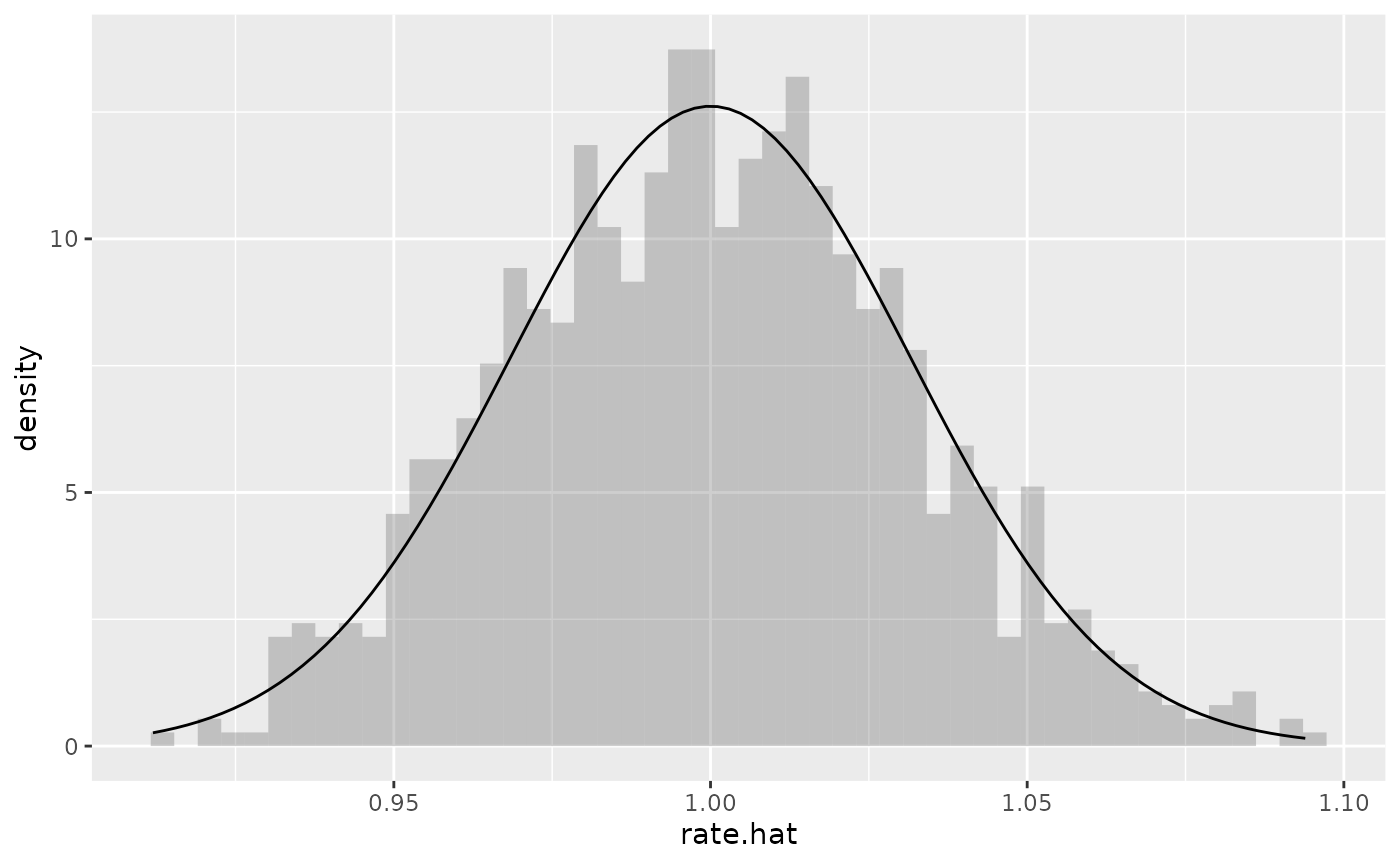
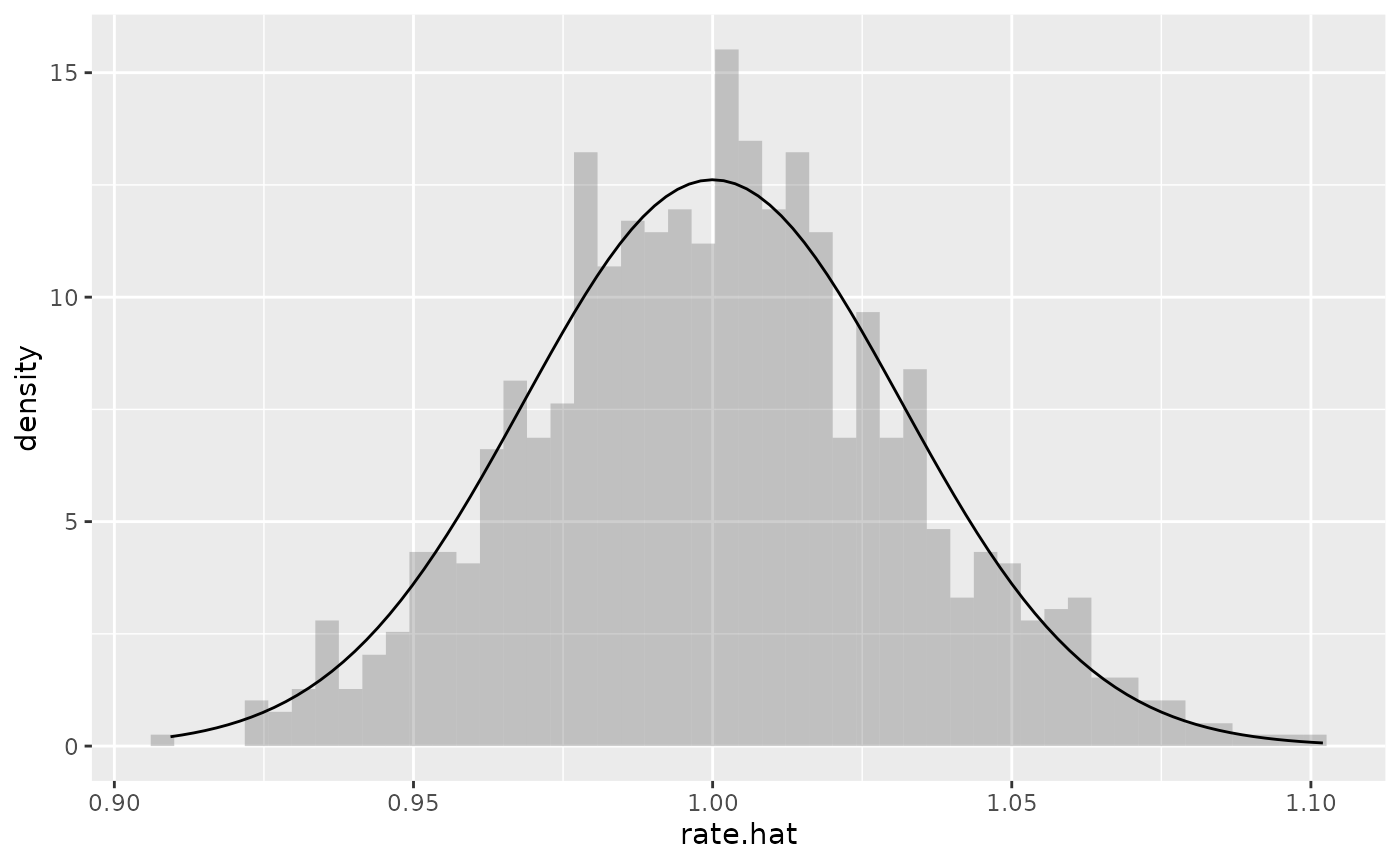
Built site for algebraic.mle: 0.1.0@e5392ce

diff --git a/articles/exponential-mle.html b/articles/exponential-mle.html
@@ -103,10 +103,10 @@
 <span class="co">#&gt; <span style="color: #949494;"># A tibble: 4 × 1</span></span>
 <span class="co">#&gt;       x</span>
 <span class="co">#&gt;   <span style="color: #949494; font-style: italic;">&lt;dbl&gt;</span></span>
-<span class="co">#&gt; <span style="color: #BCBCBC;">1</span> 2.71 </span>
-<span class="co">#&gt; <span style="color: #BCBCBC;">2</span> 1.94 </span>
-<span class="co">#&gt; <span style="color: #BCBCBC;">3</span> 0.163</span>
-<span class="co">#&gt; <span style="color: #BCBCBC;">4</span> 0.548</span></code></pre></div>
+<span class="co">#&gt; <span style="color: #BCBCBC;">1</span> 0.731</span>
+<span class="co">#&gt; <span style="color: #BCBCBC;">2</span> 0.813</span>
+<span class="co">#&gt; <span style="color: #BCBCBC;">3</span> 0.292</span>
+<span class="co">#&gt; <span style="color: #BCBCBC;">4</span> 2.43</span></code></pre></div>
 <p>We show a histogram of the sample, and a plot of the exponential function’s pdf, with:</p>
 <div class="sourceCode" id="cb4"><pre class="downlit sourceCode r">
 <code class="sourceCode R"><span class="kw"><a href="https://rdrr.io/r/base/library.html" class="external-link">library</a></span><span class="op">(</span><span class="va"><a href="https://ggplot2.tidyverse.org" class="external-link">ggplot2</a></span><span class="op">)</span>
@@ -124,35 +124,35 @@
 <span class="fu"><a href="https://rdrr.io/r/base/summary.html" class="external-link">summary</a></span><span class="op">(</span><span class="va">rate.hat</span><span class="op">)</span>
 <span class="co">#&gt; Maximum likelihood estimator, of type mle_exp ,</span>
 <span class="co">#&gt; is normally distributed with mean</span>
-<span class="co">#&gt; [1] 0.9586244</span>
+<span class="co">#&gt; [1] 1.010655</span>
 <span class="co">#&gt; and variance-covariance</span>
-<span class="co">#&gt;              [,1]</span>
-<span class="co">#&gt; [1,] 0.0009189607</span>
+<span class="co">#&gt;             [,1]</span>
+<span class="co">#&gt; [1,] 0.001021424</span>
 <span class="co">#&gt; ---</span>
-<span class="co">#&gt; The asymptotic mean squared error 0.0009189607 </span>
+<span class="co">#&gt; The asymptotic mean squared error 0.001021424 </span>
 <span class="co">#&gt; The asymptotic 95% confidence interval is</span>
 <span class="co">#&gt;       2.5 %   97.5 %</span>
-<span class="co">#&gt; 1 0.9087617 1.008487</span>
-<span class="co">#&gt; The log-likelihood is -1042.256 </span>
-<span class="co">#&gt; The AIC is 2086.512</span></code></pre></div>
+<span class="co">#&gt; 1 0.9580861 1.063224</span>
+<span class="co">#&gt; The log-likelihood is -989.4012 </span>
+<span class="co">#&gt; The AIC is 1980.802</span></code></pre></div>
 <p>We can show the point estimator with:</p>
 <div class="sourceCode" id="cb6"><pre class="downlit sourceCode r">
 <code class="sourceCode R"><span class="fu"><a href="../reference/point.html">point</a></span><span class="op">(</span><span class="va">rate.hat</span><span class="op">)</span>
-<span class="co">#&gt; [1] 0.9586244</span></code></pre></div>
+<span class="co">#&gt; [1] 1.010655</span></code></pre></div>
 <p>We can show the Fisher information and variance-covariance matrices with:</p>
 <div class="sourceCode" id="cb7"><pre class="downlit sourceCode r">
 <code class="sourceCode R"><span class="fu"><a href="../reference/fisher_info.html">fisher_info</a></span><span class="op">(</span><span class="va">rate.hat</span><span class="op">)</span>
 <span class="co">#&gt;          [,1]</span>
-<span class="co">#&gt; [1,] 1088.186</span>
+<span class="co">#&gt; [1,] 979.0255</span>
 <span class="fu"><a href="https://rdrr.io/r/stats/vcov.html" class="external-link">vcov</a></span><span class="op">(</span><span class="va">rate.hat</span><span class="op">)</span>
-<span class="co">#&gt;              [,1]</span>
-<span class="co">#&gt; [1,] 0.0009189607</span></code></pre></div>
+<span class="co">#&gt;             [,1]</span>
+<span class="co">#&gt; [1,] 0.001021424</span></code></pre></div>
 <p>(If <code>rate.hat</code> had been a vector, <code>vcov</code> would have output a variance-covariance matrix. We may consider the above outputs <span class="math inline">\(1 \times 1\)</span> matrices.)</p>
 <p>We can show the confidence interval with:</p>
 <div class="sourceCode" id="cb8"><pre class="downlit sourceCode r">
 <code class="sourceCode R"><span class="fu"><a href="https://rdrr.io/r/stats/confint.html" class="external-link">confint</a></span><span class="op">(</span><span class="va">rate.hat</span><span class="op">)</span>
 <span class="co">#&gt;       2.5 %   97.5 %</span>
-<span class="co">#&gt; 1 0.9087617 1.008487</span></code></pre></div>
+<span class="co">#&gt; 1 0.9580861 1.063224</span></code></pre></div>
 <div class="section level3">
 <h3 id="sampling-distribution-of-the-mle">Sampling distribution of the MLE<a class="anchor" aria-label="anchor" href="#sampling-distribution-of-the-mle"></a>
 </h3>
@@ -204,10 +204,10 @@
 <p>We expected a mean of <span class="math inline">\(2\)</span> and a variance of <span class="math inline">\(4/n = 0.004\)</span>, which is pretty close to what we obtained:</p>
 <div class="sourceCode" id="cb14"><pre class="downlit sourceCode r">
 <code class="sourceCode R"><span class="fu"><a href="../reference/point.html">point</a></span><span class="op">(</span><span class="va">f.hat</span><span class="op">)</span>
-<span class="co">#&gt; [1] 1.917249</span>
+<span class="co">#&gt; [1] 2.02131</span>
 <span class="fu"><a href="https://rdrr.io/r/stats/vcov.html" class="external-link">vcov</a></span><span class="op">(</span><span class="va">f.hat</span><span class="op">)</span>
-<span class="co">#&gt;            [,1]</span>
-<span class="co">#&gt; [1,] 0.00352431</span></code></pre></div>
+<span class="co">#&gt;             [,1]</span>
+<span class="co">#&gt; [1,] 0.004364325</span></code></pre></div>
 </div>
 </div>
 </div>
@@ -239,20 +239,16 @@
 <span class="va">mle</span> <span class="op">&lt;-</span> <span class="fu"><a href="../reference/mle_exp.html">mle_exp</a></span><span class="op">(</span><span class="va">samp</span><span class="op">)</span></code></pre></div>
 <p>We show the results in the following table:</p>
 <div class="sourceCode" id="cb16"><pre class="downlit sourceCode r">
-<code class="sourceCode R"><span class="kw"><a href="https://rdrr.io/r/base/library.html" class="external-link">library</a></span><span class="op">(</span><span class="va"><a href="http://haozhu233.github.io/kableExtra/" class="external-link">kableExtra</a></span><span class="op">)</span>
-<span class="va">df</span> <span class="op">&lt;-</span> <span class="fu"><a href="https://rdrr.io/r/base/data.frame.html" class="external-link">data.frame</a></span><span class="op">(</span>
+<code class="sourceCode R"><span class="va">df</span> <span class="op">&lt;-</span> <span class="fu"><a href="https://rdrr.io/r/base/data.frame.html" class="external-link">data.frame</a></span><span class="op">(</span>
     <span class="fu"><a href="https://rdrr.io/r/base/c.html" class="external-link">c</a></span><span class="op">(</span><span class="fu"><a href="../reference/point.html">point</a></span><span class="op">(</span><span class="va">mle.wt</span><span class="op">)</span>,<span class="fu"><a href="../reference/point.html">point</a></span><span class="op">(</span><span class="va">mle</span><span class="op">)</span><span class="op">)</span>,
     <span class="fu"><a href="https://rdrr.io/r/base/c.html" class="external-link">c</a></span><span class="op">(</span><span class="fu"><a href="https://rdrr.io/r/stats/vcov.html" class="external-link">vcov</a></span><span class="op">(</span><span class="va">mle.wt</span><span class="op">)</span>,<span class="fu"><a href="https://rdrr.io/r/stats/vcov.html" class="external-link">vcov</a></span><span class="op">(</span><span class="va">mle</span><span class="op">)</span><span class="op">)</span><span class="op">)</span>
 
 <span class="fu"><a href="https://rdrr.io/r/base/colnames.html" class="external-link">colnames</a></span><span class="op">(</span><span class="va">df</span><span class="op">)</span> <span class="op">&lt;-</span> <span class="fu"><a href="https://rdrr.io/r/base/c.html" class="external-link">c</a></span><span class="op">(</span><span class="st">"point estimate"</span>,<span class="st">"variance"</span><span class="op">)</span>
 <span class="fu"><a href="https://tibble.tidyverse.org/reference/rownames.html" class="external-link">rownames</a></span><span class="op">(</span><span class="va">df</span><span class="op">)</span> <span class="op">&lt;-</span> <span class="fu"><a href="https://rdrr.io/r/base/c.html" class="external-link">c</a></span><span class="op">(</span><span class="st">"weighted MLE"</span>, <span class="st">"MLE"</span><span class="op">)</span>
-
-<span class="fu">knitr</span><span class="fu">::</span><span class="fu"><a href="https://rdrr.io/pkg/knitr/man/kable.html" class="external-link">kable</a></span><span class="op">(</span><span class="va">df</span>,
-             bootstrap_options<span class="op">=</span><span class="st">"striped"</span>,
-             full_width<span class="op">=</span><span class="cn">F</span>,
-             digits<span class="op">=</span><span class="fl">3</span>,
-             label<span class="op">=</span><span class="st">"weighted.mle"</span>,
-             caption<span class="op">=</span><span class="st">"Weighted MLE vs MLE"</span><span class="op">)</span></code></pre></div>
+<span class="fu"><a href="https://rdrr.io/r/base/print.html" class="external-link">print</a></span><span class="op">(</span><span class="va">df</span><span class="op">)</span>
+<span class="co">#&gt;              point estimate     variance</span>
+<span class="co">#&gt; weighted MLE      0.9927887 0.0009875168</span>
+<span class="co">#&gt; MLE               0.9946898 0.0009894078</span></code></pre></div>
 <p>We see that <span class="math inline">\(\hat\theta\)</span> and <span class="math inline">\(\hat\theta_w\)</span> model approximately the same sampling distribution for <span class="math inline">\(\theta\)</span>.</p>
 </div>
 </div>

diff --git a/reference/algebraic.mle.html b/reference/algebraic.mle.html
@@ -2,12 +2,12 @@
 <!-- Generated by pkgdown: do not edit by hand --><html lang="en"><head><meta http-equiv="Content-Type" content="text/html; charset=UTF-8"><meta charset="utf-8"><meta http-equiv="X-UA-Compatible" content="IE=edge"><meta name="viewport" content="width=device-width, initial-scale=1, shrink-to-fit=no"><meta name="description" content="The object representing a fitted model is a type of mle object, the maximum
 likelihood estimator of the model with respect to observed data.
 In what follows, we briefly define the API (generic functions, mostly) with
-default implementations for objects that inherit from mle:"><title>algebraic.mle: A package for algebraically operating on and generating
+default implementations for objects that inherit from mle."><title>algebraic.mle: A package for algebraically operating on and generating
 maximum likelihood estimators. — algebraic.mle • algebraic.mle</title><script src="../deps/jquery-3.6.0/jquery-3.6.0.min.js"></script><meta name="viewport" content="width=device-width, initial-scale=1, shrink-to-fit=no"><link href="../deps/bootstrap-5.1.0/bootstrap.min.css" rel="stylesheet"><script src="../deps/bootstrap-5.1.0/bootstrap.bundle.min.js"></script><!-- Font Awesome icons --><link rel="stylesheet" href="https://cdnjs.cloudflare.com/ajax/libs/font-awesome/5.12.1/css/all.min.css" integrity="sha256-mmgLkCYLUQbXn0B1SRqzHar6dCnv9oZFPEC1g1cwlkk=" crossorigin="anonymous"><link rel="stylesheet" href="https://cdnjs.cloudflare.com/ajax/libs/font-awesome/5.12.1/css/v4-shims.min.css" integrity="sha256-wZjR52fzng1pJHwx4aV2AO3yyTOXrcDW7jBpJtTwVxw=" crossorigin="anonymous"><!-- bootstrap-toc --><script src="https://cdn.rawgit.com/afeld/bootstrap-toc/v1.0.1/dist/bootstrap-toc.min.js"></script><!-- headroom.js --><script src="https://cdnjs.cloudflare.com/ajax/libs/headroom/0.11.0/headroom.min.js" integrity="sha256-AsUX4SJE1+yuDu5+mAVzJbuYNPHj/WroHuZ8Ir/CkE0=" crossorigin="anonymous"></script><script src="https://cdnjs.cloudflare.com/ajax/libs/headroom/0.11.0/jQuery.headroom.min.js" integrity="sha256-ZX/yNShbjqsohH1k95liqY9Gd8uOiE1S4vZc+9KQ1K4=" crossorigin="anonymous"></script><!-- clipboard.js --><script src="https://cdnjs.cloudflare.com/ajax/libs/clipboard.js/2.0.6/clipboard.min.js" integrity="sha256-inc5kl9MA1hkeYUt+EC3BhlIgyp/2jDIyBLS6k3UxPI=" crossorigin="anonymous"></script><!-- search --><script src="https://cdnjs.cloudflare.com/ajax/libs/fuse.js/6.4.6/fuse.js" integrity="sha512-zv6Ywkjyktsohkbp9bb45V6tEMoWhzFzXis+LrMehmJZZSys19Yxf1dopHx7WzIKxr5tK2dVcYmaCk2uqdjF4A==" crossorigin="anonymous"></script><script src="https://cdnjs.cloudflare.com/ajax/libs/autocomplete.js/0.38.0/autocomplete.jquery.min.js" integrity="sha512-GU9ayf+66Xx2TmpxqJpliWbT5PiGYxpaG8rfnBEk1LL8l1KGkRShhngwdXK1UgqhAzWpZHSiYPc09/NwDQIGyg==" crossorigin="anonymous"></script><script src="https://cdnjs.cloudflare.com/ajax/libs/mark.js/8.11.1/mark.min.js" integrity="sha512-5CYOlHXGh6QpOFA/TeTylKLWfB3ftPsde7AnmhuitiTX4K5SqCLBeKro6sPS8ilsz1Q4NRx3v8Ko2IBiszzdww==" crossorigin="anonymous"></script><!-- pkgdown --><script src="../pkgdown.js"></script><meta property="og:title" content="algebraic.mle: A package for algebraically operating on and generating
 maximum likelihood estimators. — algebraic.mle"><meta property="og:description" content="The object representing a fitted model is a type of mle object, the maximum
 likelihood estimator of the model with respect to observed data.
 In what follows, we briefly define the API (generic functions, mostly) with
-default implementations for objects that inherit from mle:"><!-- mathjax --><script src="https://cdnjs.cloudflare.com/ajax/libs/mathjax/2.7.5/MathJax.js" integrity="sha256-nvJJv9wWKEm88qvoQl9ekL2J+k/RWIsaSScxxlsrv8k=" crossorigin="anonymous"></script><script src="https://cdnjs.cloudflare.com/ajax/libs/mathjax/2.7.5/config/TeX-AMS-MML_HTMLorMML.js" integrity="sha256-84DKXVJXs0/F8OTMzX4UR909+jtl4G7SPypPavF+GfA=" crossorigin="anonymous"></script><!--[if lt IE 9]>
+default implementations for objects that inherit from mle."><!-- mathjax --><script src="https://cdnjs.cloudflare.com/ajax/libs/mathjax/2.7.5/MathJax.js" integrity="sha256-nvJJv9wWKEm88qvoQl9ekL2J+k/RWIsaSScxxlsrv8k=" crossorigin="anonymous"></script><script src="https://cdnjs.cloudflare.com/ajax/libs/mathjax/2.7.5/config/TeX-AMS-MML_HTMLorMML.js" integrity="sha256-84DKXVJXs0/F8OTMzX4UR909+jtl4G7SPypPavF+GfA=" crossorigin="anonymous"></script><!--[if lt IE 9]>
 <script src="https://oss.maxcdn.com/html5shiv/3.7.3/html5shiv.min.js"></script>
 <script src="https://oss.maxcdn.com/respond/1.4.2/respond.min.js"></script>
 <![endif]--></head><body>
@@ -64,7 +64,7 @@ maximum likelihood estimators.</h1>
     <p>The object representing a fitted model is a type of <code>mle</code> object, the maximum
 likelihood estimator of the model with respect to observed data.
 In what follows, we briefly define the API (generic functions, mostly) with
-default implementations for objects that inherit from <code>mle</code>:</p>
+default implementations for objects that inherit from <code>mle</code>.</p>
     </div>
 
 

diff --git a/reference/fisher_scoring.html b/reference/fisher_scoring.html
@@ -47,7 +47,7 @@
 <div class="row">
   <main id="main" class="col-md-9"><div class="page-header">
       <img src="" class="logo" alt=""><h1>Fisher scoring algorithm.</h1>
-      <small class="dont-index">Source: <a href="https://github.com/queelius/algebraic.mle/blob/HEAD/R/fisher_scoring.R" class="external-link"><code>R/fisher_scoring.R</code></a></small>
+      <small class="dont-index">Source: <a href="https://github.com/queelius/algebraic.mle/blob/HEAD/R/numerial_mle.R" class="external-link"><code>R/numerial_mle.R</code></a></small>
       <div class="d-none name"><code>fisher_scoring.Rd</code></div>
     </div>
 

diff --git a/reference/gradient_ascent.html b/reference/gradient_ascent.html
@@ -47,7 +47,7 @@
 <div class="row">
   <main id="main" class="col-md-9"><div class="page-header">
       <img src="" class="logo" alt=""><h1>Gradient ascent</h1>
-      <small class="dont-index">Source: <a href="https://github.com/queelius/algebraic.mle/blob/HEAD/R/fisher_scoring.R" class="external-link"><code>R/fisher_scoring.R</code></a></small>
+      <small class="dont-index">Source: <a href="https://github.com/queelius/algebraic.mle/blob/HEAD/R/numerial_mle.R" class="external-link"><code>R/numerial_mle.R</code></a></small>
       <div class="d-none name"><code>gradient_ascent.Rd</code></div>
     </div>
 
